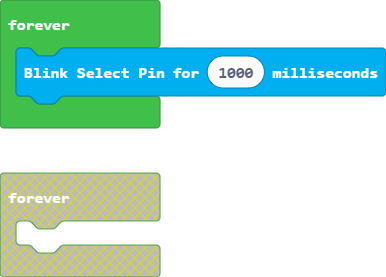
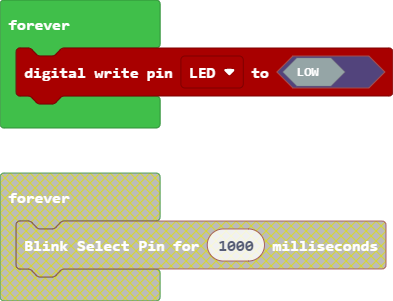
Update main.blocks, main.ts, custom.ts, enumsbit.d.ts

diff --git a/custom.ts b/custom.ts
@@ -10,7 +10,7 @@ namespace EnginoBit {
       * @param duration value (microseconds), eg: 10000 microseconds
       */
     //% block="Blink Select Pin $pin for $duration milliseconds"
-    export function led_on_for_duration(duration: number): void {
+    export function led_on_for_duration(x: pin, duration: number): void {
     pins.LED.digitalWrite(true)
     control.waitMicros(duration*1000)
     pins.LED.digitalWrite(false)
@@ -75,7 +75,7 @@ namespace EnginoBit {
         if(red>255) red=255
     }
 }
-declare interface test011{
+declare interface blinky{
 
     /**
      * Set a pin or connector value to either 0 or 1.
@@ -83,7 +83,7 @@ declare interface test011{
      * @param value value to set on the pin
      */
     //% help=pins/digital-write weight=60
-    //% blockId=device_set_digital_pin block="digital write|pin %name|to %value=toggleHighLow"
+    //% blockId=Blinky block="digital write|pin %name|to %value=number"
     //% blockNamespace=pins
     //% name.fieldEditor="gridpicker"
     //% name.fieldOptions.width=220

diff --git a/enumsbit.d.ts b/enumsbit.d.ts
@@ -9,7 +9,7 @@ declare enum speed {
 
 declare enum pin {
     //% block="Pin 2"
-    PIN_P2,
+    LED,
     //% block="Pin 3"
     PIN_P3,
     //% block="Pin 4"

diff --git a/main.ts b/main.ts
@@ -1,3 +1,3 @@
 forever(function () {
-    EnginoBit.led_on_for_duration(1000)
+    pins.LED.digitalWrite(false)
 })
